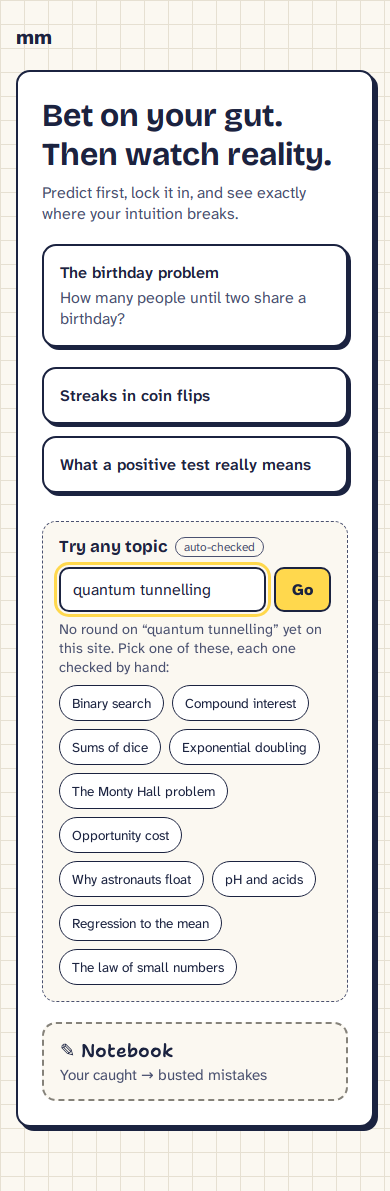
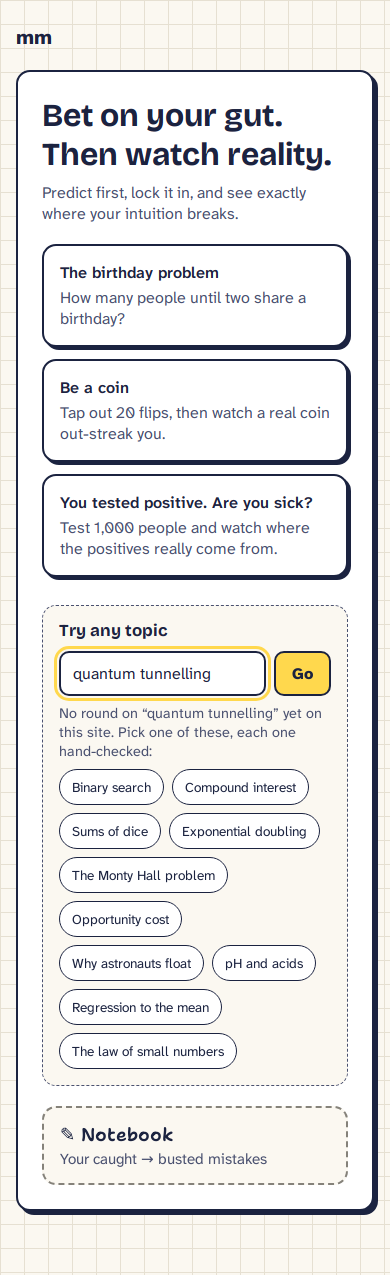
Any topic: review fixes from #136 (items 2-6) and #134 wording
- Long unbroken words wrap in the status line instead of overflowing at 390.
- The "topic's ready" toast is a full-width bottom bar on phones; the topic
  is one line with an ellipsis (full text in the title), buttons never shrink.
- The box goes read-only while building, not disabled, and keeps focus.
- No backend: never ask the page origin for /api (no 404s for unknown
  ?round=). Backend-only deploy: if the static index isn't there, the chips
  come from the extra topics' names baked into the bundle (slug/topic/aliases
  only) and the rounds load from GET /api/rounds/{slug}.
- "auto-checked" tag on the box only when there's a backend, with a tooltip.
- Box wording says "hand-checked" instead of "reviewed"/"checked by hand".
- Home skips the empty plain-round list now that every showcase has a session.
- Tests for focus/read-only, no /api calls on Pages, backend-only chips, tag.
- Fresh shots at 390/1280, plus long-word, building and ready-toast.

Changed region(s): [[0.0308, 0.0, 0.9846, 0.9631]]

diff --git a/web/src/components/AnyTopic.tsx b/web/src/components/AnyTopic.tsx
@@ -5,7 +5,7 @@ import './AnyTopic.css'
 
 const FIRST_CHIPS = 4
 
-// Under the session cards on Home: a small, secondary box. Chips open reviewed extra rounds;
+// Under the session cards on Home: a small, secondary box. Chips open hand-checked extra rounds;
 // typed text opens a cached match, or (only with a backend) asks POST /api/rounds to build one.
 export function AnyTopic({ onOpen, timeoutMs }: { onOpen: (slug: string) => void; timeoutMs?: number }) {
   const [extras, setExtras] = useState<ExtraTopic[]>([])
@@ -16,6 +16,9 @@ export function AnyTopic({ onOpen, timeoutMs }: { onOpen: (slug: string) => void
   // True while this box (still on screen) is waiting on a build it started: then open it directly.
   const waiting = useRef(false)
   const id = useId()
+  const input = useRef<HTMLInputElement>(null)
+  // Only a backend can build (and so auto-check) a round; on Pages every round is hand-checked.
+  const canBuild = apiBase() !== null
 
   useEffect(() => {
     let live = true
@@ -44,6 +47,8 @@ export function AnyTopic({ onOpen, timeoutMs }: { onOpen: (slug: string) => void
     if (hit) return onOpen(hit)
     if (apiBase() === null) return setOffline(topic)
     waiting.current = true
+    // Go gets disabled while it builds, so keep focus in the (read-only) box, not on <body>.
+    input.current?.focus()
     void startBuild(topic, timeoutMs)
   }
 
@@ -57,7 +62,12 @@ export function AnyTopic({ onOpen, timeoutMs }: { onOpen: (slug: string) => void
   return (
     <section className="anytopic" aria-labelledby={`${id}-h`}>
       <h2 id={`${id}-h`} className="anytopic-title">
-        Try any topic <span className="anytopic-tag">auto-checked</span>
+        Try any topic
+        {canBuild && (
+          <span className="anytopic-tag" title="New topics are built on the spot and checked by code before you see them">
+            auto-checked
+          </span>
+        )}
       </h2>
       <form className="anytopic-form" onSubmit={submit}>
         <label htmlFor={`${id}-in`} className="sr-only">
@@ -70,7 +80,9 @@ export function AnyTopic({ onOpen, timeoutMs }: { onOpen: (slug: string) => void
           maxLength={80}
           autoComplete="off"
           placeholder="e.g. Monty Hall, compound interest"
-          disabled={building}
+          readOnly={building}
+          aria-busy={building}
+          ref={input}
           onChange={(e) => {
             setText(e.target.value)
             setOffline(null)
@@ -83,9 +95,9 @@ export function AnyTopic({ onOpen, timeoutMs }: { onOpen: (slug: string) => void
       </form>
       <p className="anytopic-status" aria-live="polite">
         {offline !== null ? (
-          <>No round on “{offline}” yet on this site. Pick one of these, each one checked by hand:</>
+          <>No round on “{offline}” yet on this site. Pick one of these, each one hand-checked:</>
         ) : build.kind === 'building' ? (
-          <>Building your round on “{build.topic}” (can take up to a minute). Play a reviewed one while you wait:</>
+          <>Building your round on “{build.topic}” (can take up to a minute). Play a hand-checked one while you wait:</>
         ) : build.kind === 'failed' ? (
           <>Couldn't build “{build.topic}” right now. Try one of these instead:</>
         ) : build.kind === 'ready' ? (
@@ -99,11 +111,11 @@ export function AnyTopic({ onOpen, timeoutMs }: { onOpen: (slug: string) => void
             </button>
           </>
         ) : (
-          chips.length > 0 && <>Ready now, each one checked by hand:</>
+          chips.length > 0 && <>Ready now, each one hand-checked:</>
         )}
       </p>
       {chips.length > 0 && (
-        <div className="anytopic-chips" role="group" aria-label="Reviewed topics">
+        <div className="anytopic-chips" role="group" aria-label="Hand-checked topics">
           {shown.map((slug) => (
             <button key={slug} type="button" className={`anytopic-chip ${suggested.includes(slug) ? 'suggested' : ''}`} onClick={() => onOpen(slug)}>
               {topicName(slug)}
@@ -126,11 +138,16 @@ export function BuildReady({ onOpen }: { onOpen: (slug: string) => void }) {
   if (build.kind !== 'ready') return null
   return (
     <div className="anytopic-ready" role="status">
-      Your topic's ready: “{build.topic}”
-      <button type="button" onClick={() => {
-              clearBuild()
-              onOpen(build.slug)
-            }}>
+      <span className="anytopic-ready-text" title={build.topic}>
+        Your topic's ready: “{build.topic}”
+      </span>
+      <button
+        type="button"
+        onClick={() => {
+          clearBuild()
+          onOpen(build.slug)
+        }}
+      >
         Open
       </button>
       <button type="button" aria-label="Dismiss" onClick={clearBuild}>

diff --git a/web/src/AnyTopic.test.tsx b/web/src/AnyTopic.test.tsx
@@ -43,7 +43,7 @@ describe('Try any topic', () => {
     fireEvent.click(await screen.findByRole('button', { name: 'Sums of dice' }))
     expect(here()).toBe(`${BASE}?round=dice-sums`)
     expect(await screen.findByText(/Sums of dice · 1 of 3/)).toBeTruthy()
-    expect(screen.getByText('reviewed')).toBeTruthy()
+    expect(screen.getByText(/^(reviewed|hand-checked)$/)).toBeTruthy()
   })
 
   it('a refresh on an extra round reopens it', async () => {
@@ -70,6 +70,70 @@ describe('Try any topic', () => {
     expect(screen.getByRole('button', { name: 'Sums of dice' })).toBeTruthy()
     expect(screen.getByRole('button', { name: 'The Monty Hall problem' })).toBeTruthy()
     expect(posts()).toHaveLength(0)
+  })
+
+  it('on Pages (no backend) the box says nothing about auto-checking', async () => {
+    render(<App />)
+    await screen.findByRole('button', { name: 'Sums of dice' })
+    expect(screen.queryByText('auto-checked')).toBeNull()
+    expect(screen.getByText(/each one hand-checked/)).toBeTruthy()
+    expect(screen.getByRole('group', { name: 'Hand-checked topics' })).toBeTruthy()
+  })
+
+  it('with a backend, the box shows the auto-checked tag with a tooltip', async () => {
+    vi.stubEnv('VITE_API_BASE', 'http://api.test')
+    render(<AnyTopic onOpen={() => {}} />)
+    await screen.findByRole('button', { name: 'Sums of dice' })
+    expect(screen.getByText('auto-checked').getAttribute('title')).toMatch(/checked by code/)
+  })
+
+  it('with no backend, an unknown ?round= never asks the page origin for /api', async () => {
+    history.replaceState(null, '', `${BASE}?round=no-such-round`)
+    render(<App />)
+    await waitFor(() => expect(here()).toBe(BASE))
+    const urls = fetchMock.mock.calls.map(([u]) => String(u))
+    expect(urls).toContain(`${BASE}rounds/extra/no-such-round.json`)
+    expect(urls.some((u) => u.includes('/api/'))).toBe(false)
+  })
+
+  it('with no backend and no static index, there are no chips and no /api call', async () => {
+    fetchMock.mockImplementation(async () => json({}, 404))
+    render(<AnyTopic onOpen={() => {}} />)
+    await waitFor(() => expect(fetchMock).toHaveBeenCalled())
+    await new Promise((r) => setTimeout(r, 20))
+    expect(screen.queryByRole('group', { name: 'Hand-checked topics' })).toBeNull()
+    expect(fetchMock.mock.calls.some(([u]) => String(u).includes('/api/'))).toBe(false)
+  })
+
+  it('backend-only deploy (no static files): chips come from the bundle, rounds from the API', async () => {
+    vi.stubEnv('VITE_API_BASE', 'http://api.test')
+    fetchMock.mockImplementation(async (url: string) =>
+      url === 'http://api.test/api/rounds/monty-hall' ? json(monty) : json({}, 404),
+    )
+    render(<App />)
+    // every reviewed extra in data/rounds/extra/ is offered
+    fireEvent.click(await screen.findByRole('button', { name: /more$/ }))
+    expect(screen.getByRole('button', { name: 'Sums of dice' })).toBeTruthy()
+    fireEvent.click(screen.getByRole('button', { name: 'The Monty Hall problem' }))
+    expect(await screen.findByText(/The Monty Hall problem · 1 of 3/)).toBeTruthy()
+  })
+
+  it('while building, the box stays focused and read-only (not disabled)', async () => {
+    vi.stubEnv('VITE_API_BASE', 'http://api.test')
+    fetchMock.mockImplementation(async (url: string, init?: RequestInit) =>
+      init?.method === 'POST' ? new Promise<Response>(() => {}) : url in files ? json(files[url]) : json({}, 404),
+    )
+    render(<AnyTopic onOpen={() => {}} />)
+    await screen.findByRole('button', { name: 'Sums of dice' })
+    const box = screen.getByLabelText(/topic you want/) as HTMLInputElement
+    fireEvent.change(box, { target: { value: 'tides' } })
+    const go = screen.getByRole('button', { name: 'Go' })
+    go.focus()
+    fireEvent.click(go)
+    await screen.findByText(/Building your round on “tides”/)
+    expect(box.disabled).toBe(false)
+    expect(box.readOnly).toBe(true)
+    expect(document.activeElement).toBe(box)
   })
 
   it('a slow build times out to the chips', async () => {

diff --git a/web/src/extras.ts b/web/src/extras.ts
@@ -34,18 +34,31 @@ async function getJson<T>(url: string, init?: RequestInit): Promise<T> {
 
 let indexPromise: Promise<ExtraTopic[]> | null = null
 
-/** The reviewed extra topics: the static index first, then GET /api/rounds (dev), else none. */
+// The reviewed extras' names, baked in at build time (named JSON imports, so only these fields
+// ship, not the rounds). Used only when there's a backend but no static index next to the page
+// (a backend-only deploy): the backend serves the rounds themselves at GET /api/rounds/{slug}.
+// (import.meta.glob needs literal options, hence one call per field.)
+const slugs = import.meta.glob<string>('../../data/rounds/extra/*.json', { eager: true, import: 'slug' })
+const topics = import.meta.glob<string>('../../data/rounds/extra/*.json', { eager: true, import: 'topic' })
+const aliases = import.meta.glob<string[] | undefined>('../../data/rounds/extra/*.json', { eager: true, import: 'aliases' })
+const reviewed = import.meta.glob<boolean>('../../data/rounds/extra/*.json', { eager: true, import: 'reviewed' })
+function bundledIndex(): ExtraTopic[] {
+  return Object.keys(slugs)
+    .sort()
+    .filter((path) => reviewed[path] === true)
+    .map((path) => ({ slug: slugs[path], topic: topics[path], aliases: aliases[path] ?? [] }))
+}
+
+/**
+ * The reviewed extra topics: the static index (Pages, dev) first. If it isn't there and a backend
+ * is configured, the names baked into the bundle (the backend serves those rounds). Else none.
+ */
 export function loadExtraIndex(): Promise<ExtraTopic[]> {
   indexPromise ??= (async () => {
     try {
       return await getJson<ExtraTopic[]>(`${base()}rounds/extra/index.json`)
     } catch {
-      try {
-        const list = await getJson<{ slug: string; topic: string; reviewed: boolean }[]>(`${apiBase() ?? ''}/api/rounds`)
-        return list.filter((r) => r.reviewed && !showcaseRound(r.slug)).map((r) => ({ slug: r.slug, topic: r.topic, aliases: [] }))
-      } catch {
-        return []
-      }
+      return apiBase() === null ? [] : bundledIndex()
     }
   })()
   return indexPromise
@@ -70,15 +83,18 @@ export function cachedRound(slug: string): Round | undefined {
   return loaded.get(slug)
 }
 
-/** An extra round by slug: static file first, then GET /api/rounds/{slug}. */
+/** An extra round by slug: static file first, then GET /api/rounds/{slug} if there's a backend. */
 export async function loadExtraRound(slug: string): Promise<Round> {
   const hit = loaded.get(slug)
   if (hit) return hit
   let round: Round
   try {
     round = await getJson<Round>(`${base()}rounds/extra/${encodeURIComponent(slug)}.json`)
-  } catch {
-    round = await getJson<Round>(`${apiBase() ?? ''}/api/rounds/${encodeURIComponent(slug)}`)
+  } catch (err) {
+    // No backend (Pages): never ask the page's own origin for /api, it can only 404.
+    const api = apiBase()
+    if (api === null) throw err
+    round = await getJson<Round>(`${api}/api/rounds/${encodeURIComponent(slug)}`)
   }
   if (!round?.slug || !Array.isArray(round.items)) throw new Error(`round ${slug}: not a round`)
   loaded.set(slug, round)

diff --git a/web/src/components/AnyTopic.css b/web/src/components/AnyTopic.css
@@ -4,10 +4,11 @@
 .anytopic-tag { font-family: var(--font-body); font-size: 0.75rem; font-weight: 400; padding: 1px 8px; border: 1.5px solid var(--ink-soft); border-radius: 999px; color: var(--ink-soft); }
 .anytopic-form { display: flex; gap: 8px; }
 .anytopic-form input { flex: 1; min-width: 0; padding: 10px 12px; font: inherit; color: var(--ink); background: var(--card); border: 2px solid var(--ink); border-radius: 10px; }
+.anytopic-form input:read-only { color: var(--ink-soft); }
 .anytopic-form input::placeholder { color: var(--pencil); }
 .anytopic-form button { padding: 10px 16px; font-weight: 700; border: 2px solid var(--ink); border-radius: 10px; background: var(--marker); }
 .anytopic-form button:disabled { opacity: 0.45; cursor: not-allowed; }
-.anytopic-status { font-size: 0.9rem; color: var(--ink-soft); margin: 8px 0; min-height: 0; }
+.anytopic-status { overflow-wrap: anywhere; font-size: 0.9rem; color: var(--ink-soft); margin: 8px 0; min-height: 0; }
 .anytopic-status:empty { margin: 4px 0; }
 .anytopic-chips { display: flex; flex-wrap: wrap; gap: 8px; }
 .anytopic-chip { padding: 6px 12px; min-height: 36px; font-size: 0.85rem; border: 1.5px solid var(--ink); border-radius: 999px; background: var(--card); }
@@ -19,3 +20,10 @@
 .anytopic-ready { position: fixed; left: 50%; bottom: 24px; transform: translateX(-50%); z-index: 10; display: flex; align-items: center; gap: 8px; max-width: calc(100vw - 32px); padding: 6px 8px 6px 16px; border: 2px solid var(--ink); border-radius: 999px; background: var(--card); box-shadow: 0 3px 0 var(--ink); font-weight: 600; font-size: 0.9rem; }
 .anytopic-ready button { padding: 4px 12px; font-weight: 700; border: 2px solid var(--ink); border-radius: 999px; background: var(--marker); }
 .anytopic-ready button[aria-label='Dismiss'] { background: var(--card); padding: 4px 10px; }
+/* The topic is one line, cut with an ellipsis; the buttons never shrink. */
+.anytopic-ready-text { flex: 1; min-width: 0; overflow: hidden; text-overflow: ellipsis; white-space: nowrap; }
+.anytopic-ready button { flex: none; }
+/* Phones: a full-width bar along the bottom instead of a pill squeezed over Lock. */
+@media (max-width: 560px) {
+  .anytopic-ready { left: 0; right: 0; bottom: 0; transform: none; max-width: none; border-radius: 14px 14px 0 0; border-bottom: 0; box-shadow: 0 -3px 0 var(--ink); padding: 10px 12px calc(10px + env(safe-area-inset-bottom)) 16px; }
+}

diff --git a/web/src/App.tsx b/web/src/App.tsx
@@ -16,6 +16,8 @@ import './App.css'
 const BEAT_MS = 400
 
 function Home({ onPick, onSession, onNotebook }: { onPick: (slug: string) => void; onSession: (slug: string) => void; onNotebook: () => void }) {
+  // Showcases with a session open that instead; only ones without one get a plain round button.
+  const rounds = showcaseSlugs.filter((slug) => !sessionFor(slug))
   return (
     <div className="home sheet">
       <h1>Bet on your gut. Then watch reality.</h1>
@@ -30,13 +32,15 @@ function Home({ onPick, onSession, onNotebook }: { onPick: (slug: string) => voi
           ))}
         </div>
       )}
-      <div className="showcases">
-        {showcaseSlugs.filter((slug) => !sessionFor(slug)).map((slug) => (
-          <button key={slug} className="showcase" onClick={() => onPick(slug)}>
-            {showcaseRound(slug)!.topic}
-          </button>
-        ))}
-      </div>
+      {rounds.length > 0 && (
+        <div className="showcases">
+          {rounds.map((slug) => (
+            <button key={slug} className="showcase" onClick={() => onPick(slug)}>
+              {showcaseRound(slug)!.topic}
+            </button>
+          ))}
+        </div>
+      )}
       <AnyTopic onOpen={onPick} />
       <NotebookLink onOpen={onNotebook} />
     </div>
